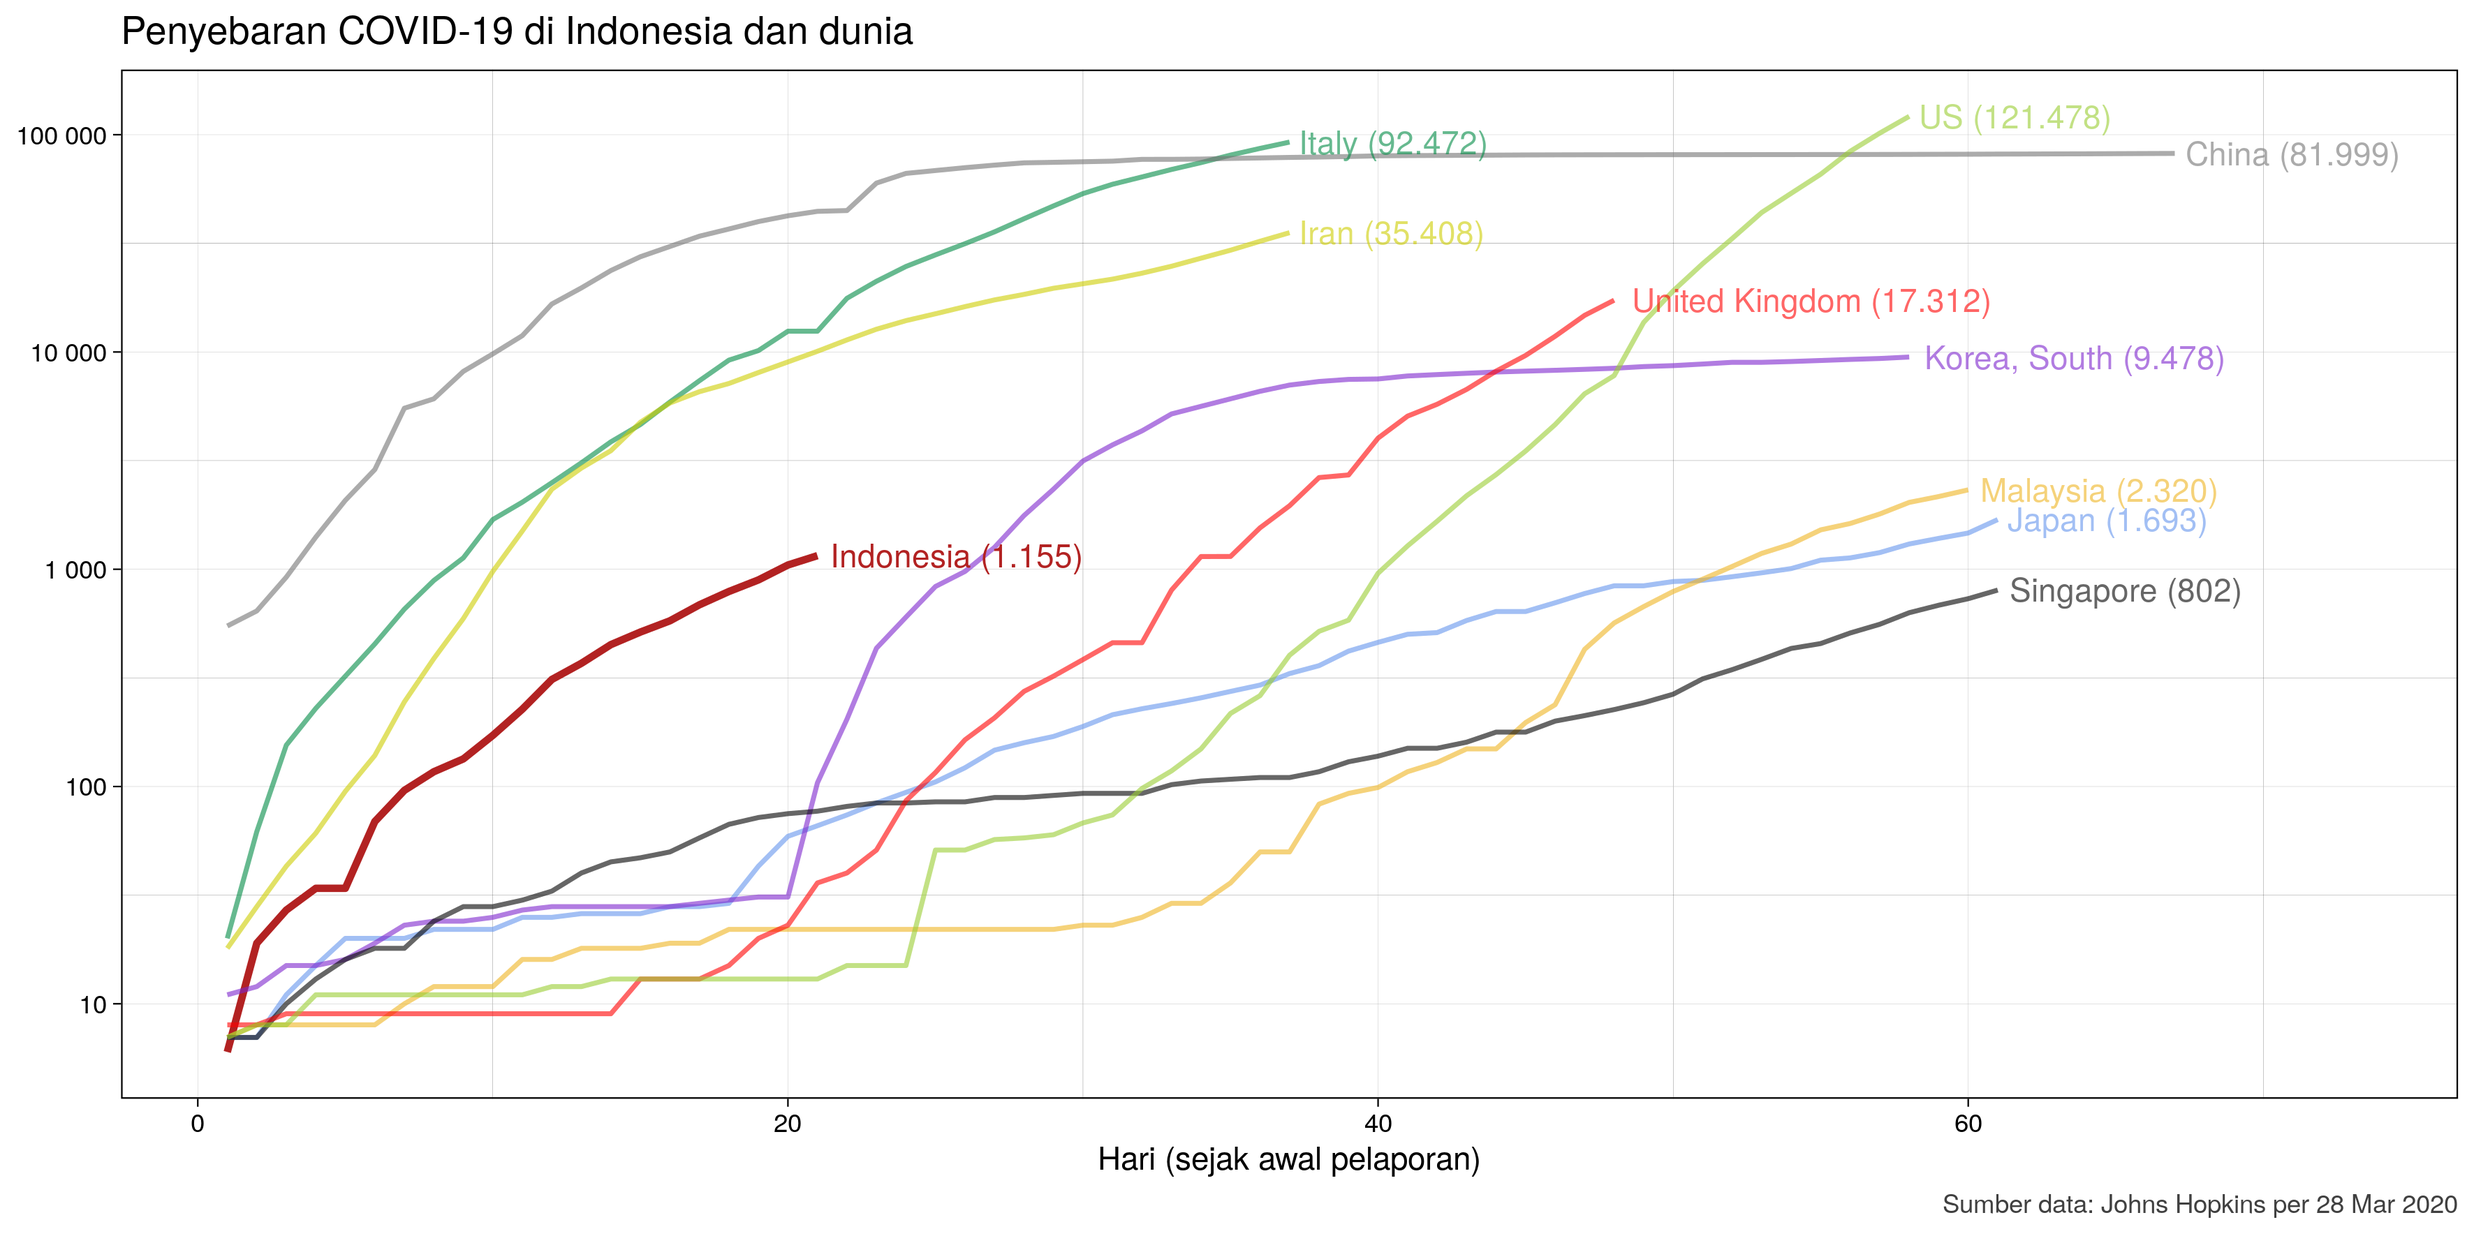
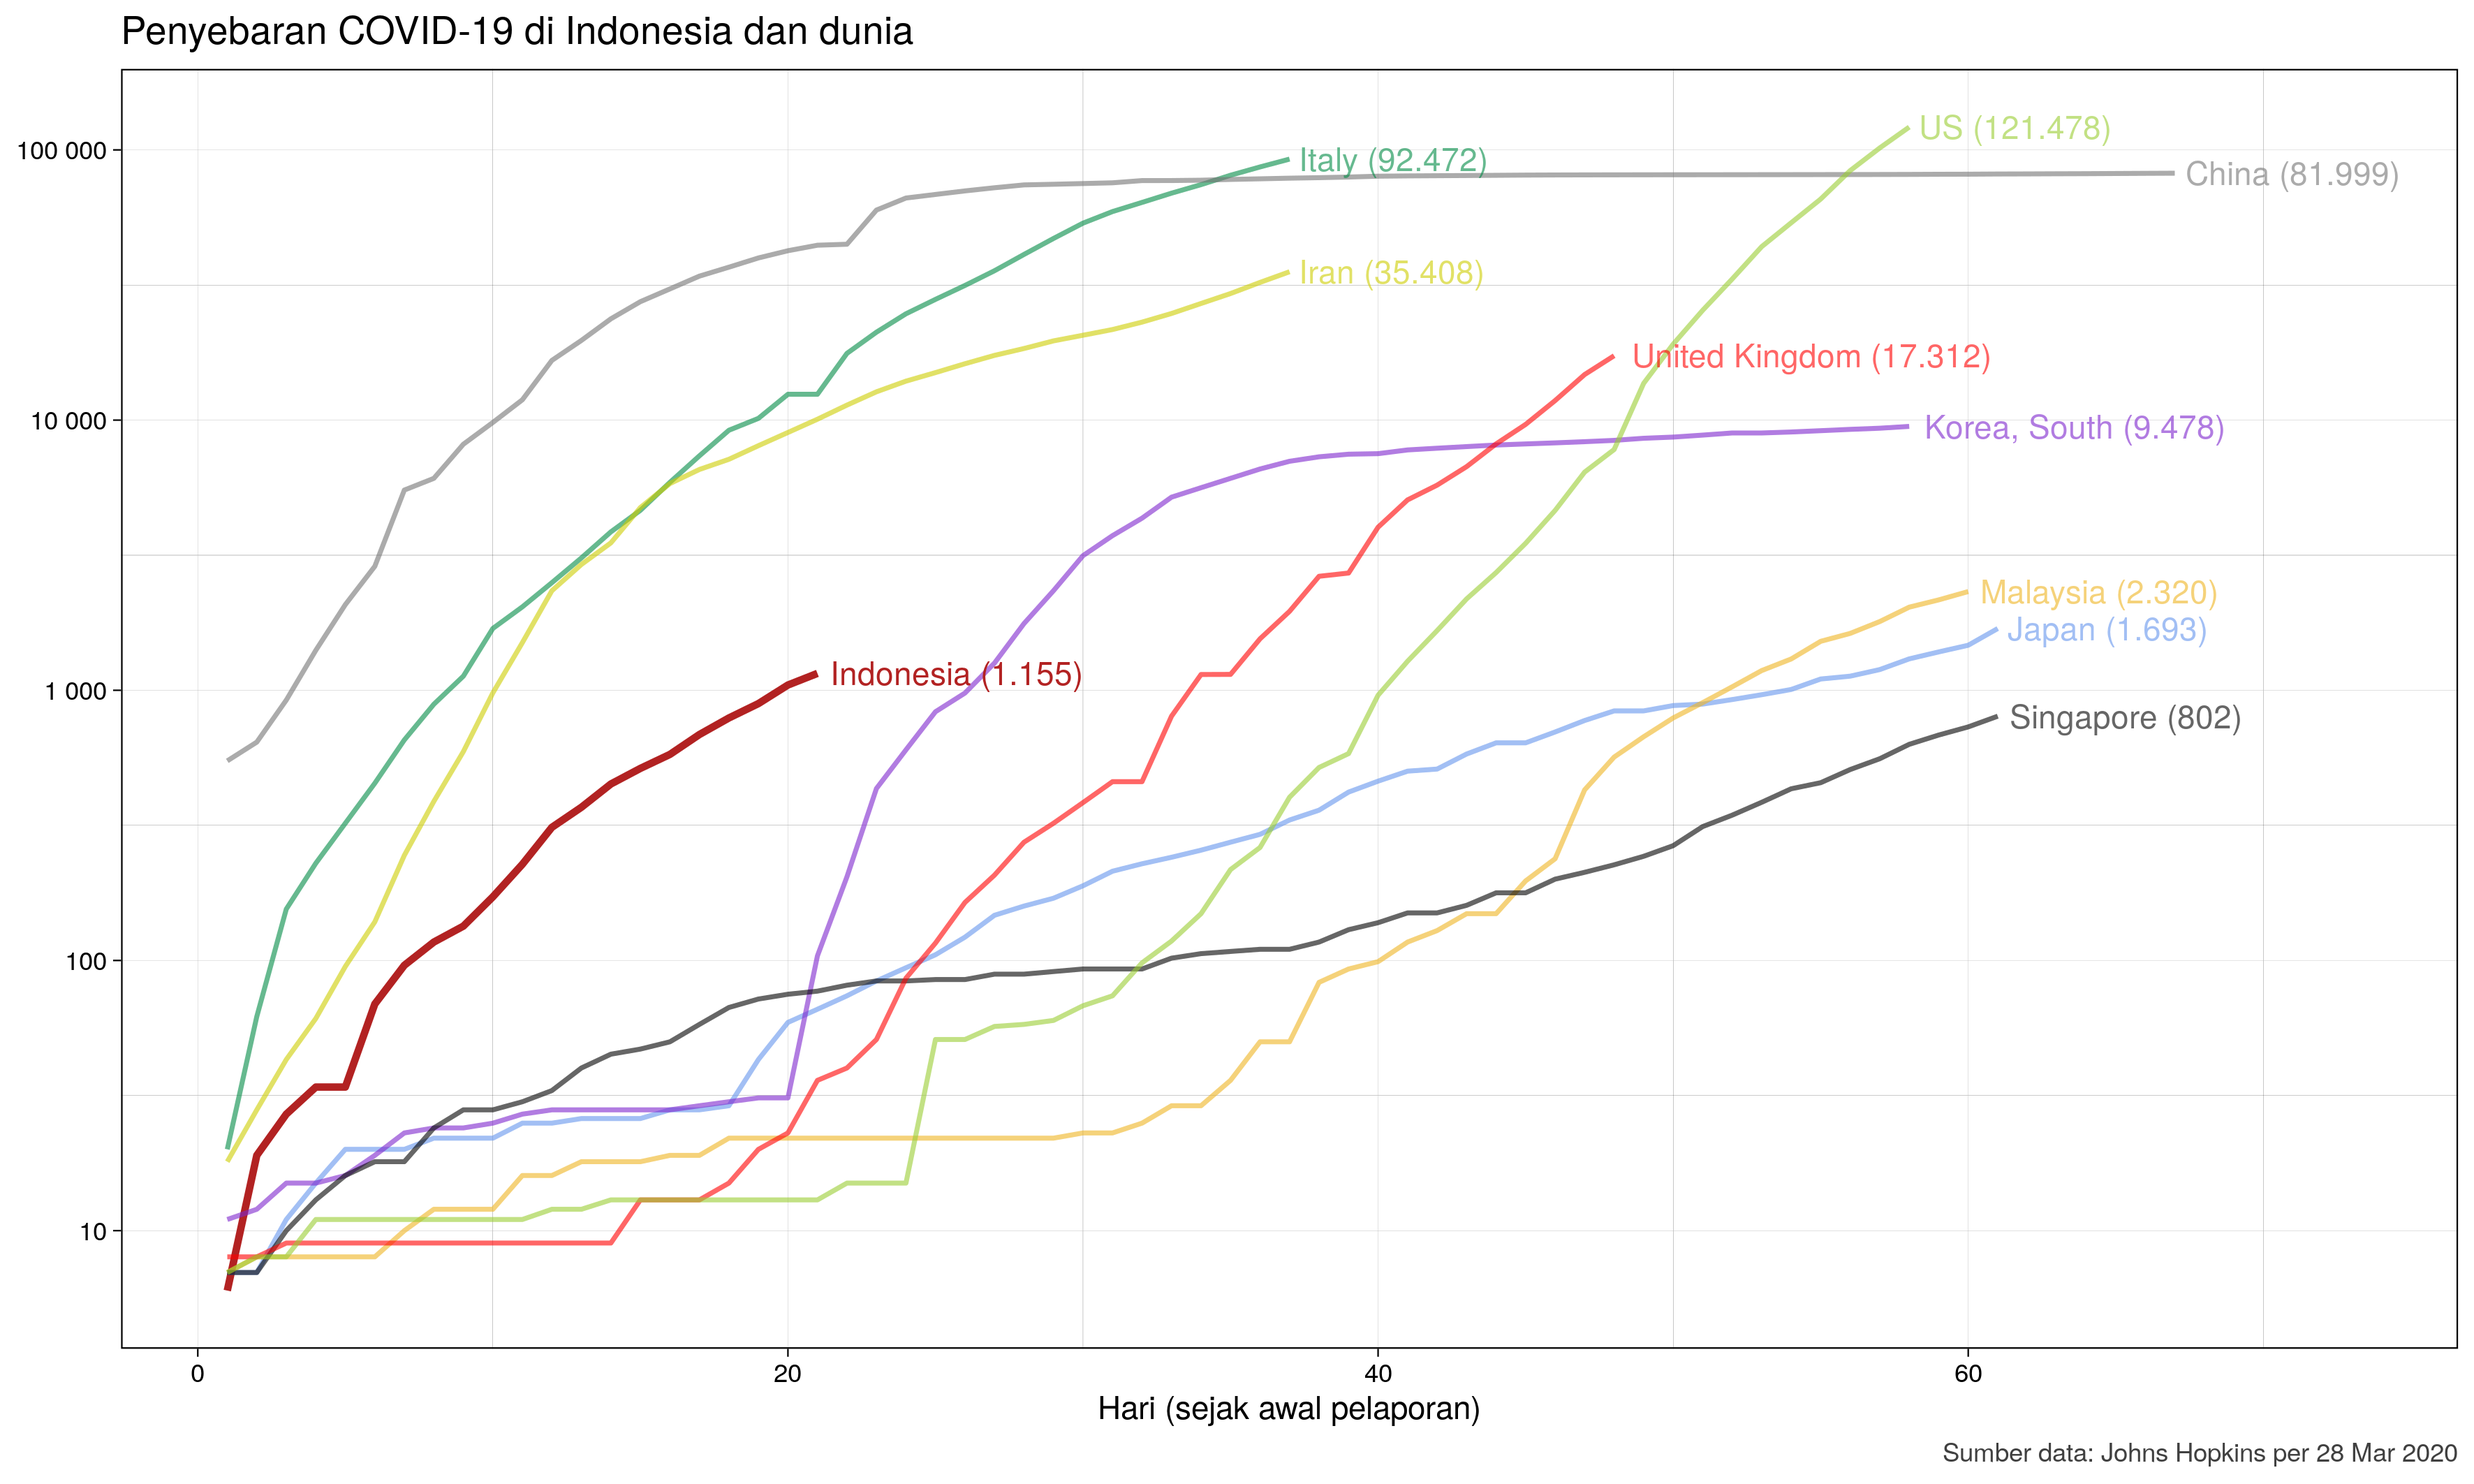
update readme dan gambar

diff --git a/README.md b/README.md
@@ -1,20 +1,21 @@
-# Koronavirus
+# Perkembangan Kasus Covid-19 Indonesia
 
-_Repositori ini merupakan hasil klon dari_ [_analisis koronavirus Ceko_](https://github.com/jlacko/koronavirus) _. Dimodifikasi, disesuaikan, dan dimutahirkan menggunakan data penyebaran koronavirus Indonesia dari berbagai sumber._
+_Repositori ini merupakan hasil klon dari_ [_analisis koronavirus di Ceko_](https://github.com/jlacko/koronavirus) _oleh J. Lacko. Dimodifikasi, disesuaikan, dan dimutahirkan menggunakan data penyebaran koronavirus Indonesia._
 
-Representasi grafis dari pengembangan onoronavir baru COVID-19, dengan perhatian khusus ke Republik Ceko. Faktanya terus diperbarui, model sesuai dengan tren pada 20 Maret 2020 - akan menarik untuk melihat apakah kita memegang eksponensial (virus menang) atau mengurangi kurva (kita menang).
+Representasi grafis dari kasus penyebaran koronavirus baru (nCoV-19) di Indonesia. Sumber data dari basis data yang terkenal di dunia saat ini yaitu Universitas John Hopkins, tersedia di GitHub: https://github.com/CSSEGISandData/COVID-19
 
-Sumber data adalah database terkenal dari Universitas John Hopkins, tersedia di GitHub: https://github.com/CSSEGISandData/COVID-19
-
-<p align="center">
-  <img src="http://jla-unsecure.s3-website.eu-central-1.amazonaws.com/koronavirus/obrazek.png" alt="trendline"/>
-</p>
-
-Tren saat ini cukup dekat dengan eksponensial ideal, dengan prospek 10 ribu kasus sebelum akhir Maret.
-
-Sebagai perbandingan, tren empat negara di dunia; Anda dapat melihat bagaimana eksponensial berhenti di Cina dan Korea, melambat di Jepang tetapi tetap mempertahankan tren di Italia.
+Fakta jumlah kasus sesuai dengan data yang dilaporkan per 28 Maret 2020. Model sesuai dengan tren pada 20 Maret 2020, yang hingga 28 Maret 2020 memperlihatkan hubungan yang selaras dengan keadaan di lapangan.
 
 <p align="center">
-  <img src="http://jla-unsecure.s3-website.eu-central-1.amazonaws.com/koronavirus/cizina.png" alt="cizina"/>
+  <img src="./img/image.png" alt="trendline"/>
 </p>
 
+Kita berharap grafik akan terus mendatar (semendatar mungkin), berada di bawah titik-titik jumlah prediksi, yang berarti kita menang melawan koronavirus.
+
+Sebagai perbandingan diberikan pula tren dari negara lain di dunia. Kita dapat melihat bagaimana peningkatan kasus secara eksponensial mulai berhenti di Tiongkok dan Korea Selatan, melambat di Jepang dan Malaysia, namun tetap bertahan di Italia, Iran, dan USA.
+
+<p align="center">
+  <img src="./img/foreign.png" alt="foreign"/>
+</p>
+
+_Dimutakhirkan pada 29 Maret 2020_
